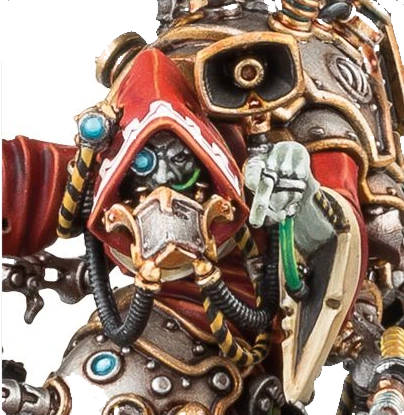
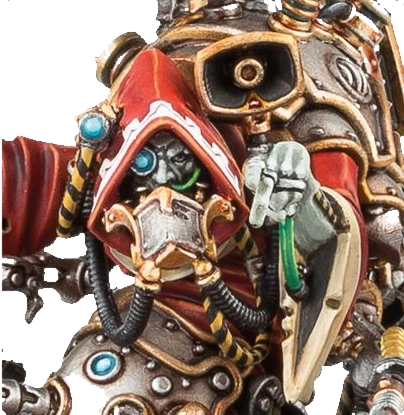
Fix Cawl background transparency

diff --git a/books/adeptus-mechanicus/tools/build-unit-images.py b/books/adeptus-mechanicus/tools/build-unit-images.py
@@ -31,6 +31,8 @@ def transparent_product_image(source, config):
         queue.extend((x, (height - 1) * width + x))
     for y in range(height):
         queue.extend((y * width, y * width + width - 1))
+    for x, y in config["processing"].get("backgroundSeeds", []):
+        queue.append(y * width + x)
     while queue:
         index = queue.popleft()
         if background[index] or not candidate[index]:
